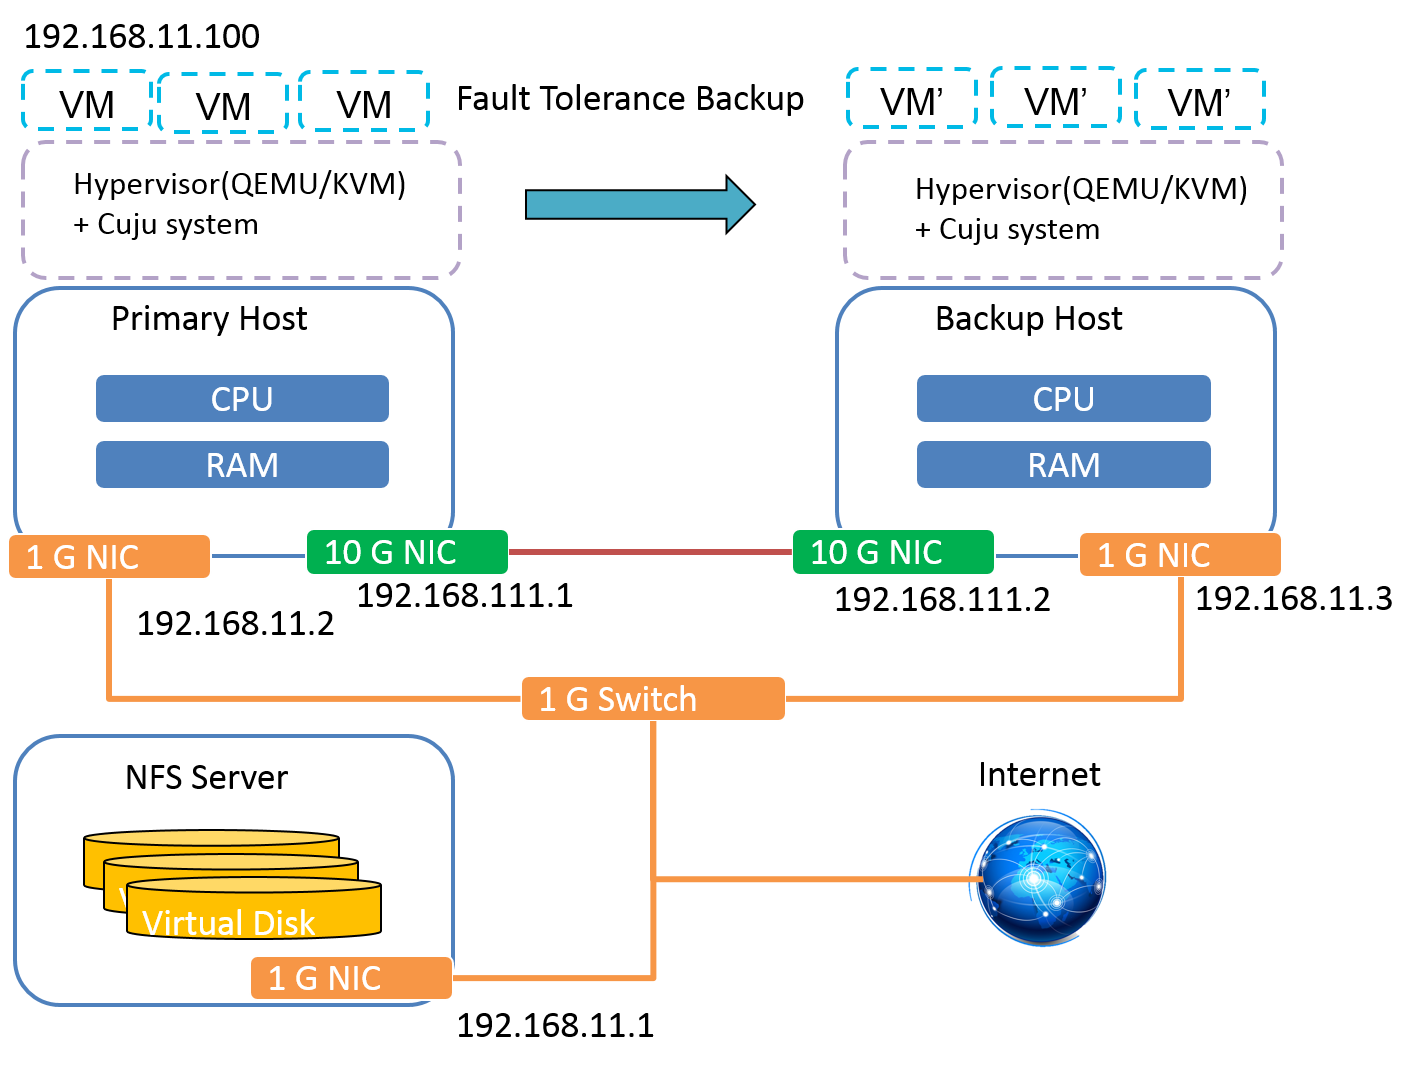
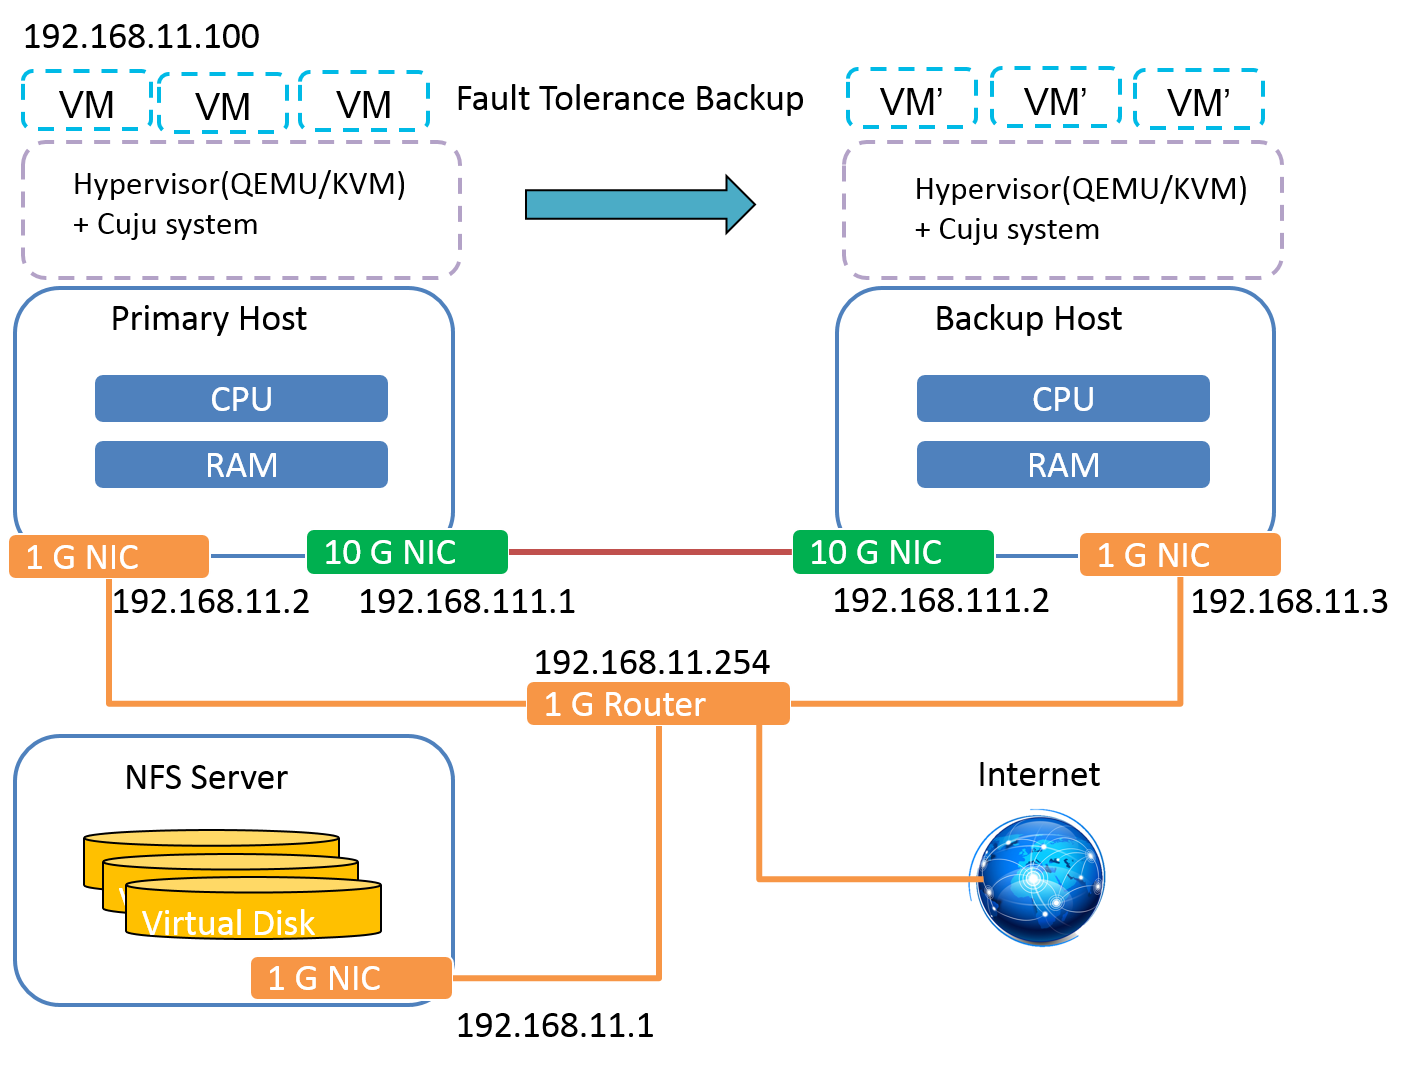
Update support document network setting part

diff --git a/support.html b/support.html
@@ -125,15 +125,9 @@ iface lo inet loopback
 
 auto eth0
 iface eth0 inet static
-address 10.1.10.10
-netmask 255.255.255.0
-gateway 10.1.10.254
-dns-nameservers 8.8.8.8
-
-auto eth1
-iface eth1 inet static
 address 192.168.11.1
 netmask 255.255.255.0
+gateway 192.168.11.254
 dns-nameservers 8.8.8.8 </code>
 				</pre>
 				
@@ -147,7 +141,7 @@ bridge_ports eth0
 bridge_maxwait 0
 address 192.168.11.2
 netmask 255.255.255.0
-gateway 192.168.11.1
+gateway 192.168.11.254
 dns-nameservers 8.8.8.8
 
 auto eth0
@@ -170,7 +164,7 @@ bridge_ports eth0
 bridge_maxwait 0
 address 192.168.11.3
 netmask 255.255.255.0
-gateway 192.168.11.1
+gateway 192.168.11.254
 dns-nameservers 8.8.8.8
 
 auto eth0
@@ -195,7 +189,7 @@ netmask 255.255.255.0 </code>
             <pre class="prettyprint"> $ sudo apt-get install nfs-kernel-server</pre>
 				<ul><li>Insert this line in "/etc/exports" to add your NFS forder: </li></ul>
 			<pre class="prettyprint"> /home/[your username]/nfsfolder *(rw,no_root_squash,no_subtree_check) </pre>
-
+				<ul><li>After editing /etc/exports, type "/etc/init.d/nfs-kernel-server restart" or reboot</li></ul>
             <li>Install the NFS client in Primary and Backup nodes; then mount the NFS forder</li>
 			
 			<pre class="prettyprint"> $ apt-get install nfs-common
@@ -204,7 +198,7 @@ netmask 255.255.255.0 </code>
 			
 
               <li>In NFS node, go to your nfs forder, then download 
-                <a href="https://" target="_blank">Cuju</a>
+                <a href="https://github.com/Cuju-ft/Cuju" target="_blank">Cuju</a>
                 and build a VM image file (or download our <a href="https://drive.google.com/file/d/0B9au9R9FzSWKNjZpWUNlNDZLcEU/view?usp=sharing"> Ubuntu-16.04 VM image file</a>, the account/password is root/root), they will be synced with Primary and Backup node.</li>
          
 
@@ -263,7 +257,7 @@ echo 0 > /dev/cgroup/vmft/cpuset.mems
 
 </ul>
 
-        <h3>Cuju Install and Execute</h3>
+        <h3>Cuju Compile and Execute</h3>
           <ul>
             <li>See README.md on <a href="https://github.com/Cuju-ft/Cuju/blob/master/README.md"> GitHub </a></li>
           </ol>
